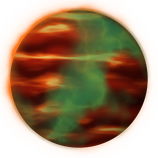
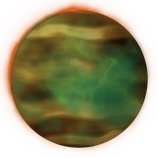
Year 501 and Hegemony or Survival: small starbases, supergiants, two brown dwarfs
- The west-vs-east map is now its own map, Year 501 (maps/6p_Year_501.map,
  tools/make_year_501.py), with three small one-ring starbases a side and
  its start docking rings fixed to touch their starbases.
- Hegemony or Survival gets nine small starbases: one with two rings by
  each supergiant, and three with one ring outside every other ford into
  the central ring (turned three ways).
- New four-hex Supergiant terrain (^Ysu, ^Ysu1..6): yellow, blue, red,
  white, green and orange, one of each on Hegemony or Survival.
- Brown dwarfs cut to two looks, magenta (^Ygg1) and mottled brown and
  ochre (^Ygg2), both on Year 501.

Claude-Session: https://claude.ai/code/session_01JBSoBdAT3FeCyXV6Bu7Tri

diff --git a/tools/make_barriers.py b/tools/make_barriers.py
@@ -9,8 +9,9 @@ Two kinds:
   its neighbours, so a blob reads as one cloud with a soft edge. This file
   only paints the clouds; make_art.py cuts them into hexes.
 * Single objects, drawn as overlays: black hole (four of them, picked per
-  hex), pulsar, and four that span four hexes: brown dwarf, supermassive
-  black hole, globular cluster and red supergiant (in its debris disk).
+  hex), pulsar, and five that span four hexes: brown dwarf, supergiant,
+  supermassive black hole, globular cluster and red supergiant (in its
+  debris disk).
 """
 import math
 
@@ -332,6 +333,8 @@ BROWN_DWARFS = [
     [(40, 22, 8), (195, 140, 50), (240, 200, 105), (255, 235, 170), (225, 100, 40), (3, 5), 0.0, "mottled"],  # mottled brown and ochre
     [(18, 10, 8), (70, 45, 30), (200, 95, 35), (255, 180, 100), (190, 90, 50), (3, 5), 0.25],      # dark, nearly cold
 ]
+# the looks kept for the maps, in order: the magenta and the mottled ones
+BROWN_DWARFS_KEPT = [5, 6]
 
 
 def _stretched(rng, s, octaves, base, sx=4):
@@ -402,6 +405,77 @@ def brown_dwarf(rng, style):
     out.alpha_composite(_rgba(np.broadcast_to(glow, (size, size, 3)), ga))
     out.alpha_composite(globe, ((size - globe.width) // 2,) * 2)
     return out
+
+# Supergiants: the biggest stars, each filling four hexes. Their colour
+# follows their surface heat, as on a star chart: blue (hottest, like
+# Rigel), white (like Deneb), yellow (like Rho Cassiopeiae), orange and
+# red (coolest, like Betelgeuse), and one green, which no real star shows
+# (a star that shines brightest in green looks white to the eye).
+# Each: core, middle, limb, glow; how big and bold its convection cells
+# are (cells across the disc, contrast), and how far the glow reaches.
+SUPERGIANT_D = 146             # a little bigger than a brown dwarf
+SUPERGIANT_SIZE = 216          # room for the glow round it
+SUPERGIANTS = [
+    [(255, 255, 240), (255, 222, 110), (205, 120, 25), (255, 205, 80), (10, 0.45), 1.0],    # yellow
+    [(240, 246, 255), (150, 182, 255), (70, 95, 225), (120, 165, 255), (32, 0.18), 1.5],    # blue
+    [(255, 205, 150), (230, 85, 35), (105, 18, 8), (225, 55, 25), (6, 0.6), 0.9],           # red
+    [(255, 255, 255), (228, 234, 255), (160, 175, 225), (215, 225, 255), (24, 0.18), 1.3],  # white
+    [(235, 255, 230), (110, 235, 135), (20, 120, 60), (90, 235, 120), (20, 0.3), 1.1],      # green
+    [(255, 240, 200), (255, 160, 65), (170, 65, 15), (255, 130, 45), (9, 0.45), 0.95],      # orange
+]
+
+
+def _cells(rng, s, n, R, warp):
+    """Cellular noise over a disc of radius R, its grid warped by up to
+    warp pixels so the cells are not straight-edged: (distance to the
+    nearest of n random points minus to the next nearest, which is 0 on
+    the lanes between cells; and each pixel's cell's own brightness)."""
+    x, y = _grid(s)
+    x = x + warp * (_noise(rng, s, 4, 4) - 0.5) * 2
+    y = y + warp * (_noise(rng, s, 4, 4) - 0.5) * 2
+    a = rng.uniform(0, 2 * np.pi, n); q = R * 1.1 * np.sqrt(rng.uniform(0, 1, n))
+    px, py, lum = q * np.cos(a), q * np.sin(a), rng.uniform(0, 1, n)
+    d = np.stack([np.hypot(x - u, y - v) for u, v in zip(px, py)])
+    order = np.argsort(d, axis=0)[:2]
+    d1 = np.take_along_axis(d, order[:1], 0)[0]
+    d2 = np.take_along_axis(d, order[1:2], 0)[0]
+    return d2 - d1, lum[order[0]]
+
+
+def supergiant(rng, style):
+    """A supergiant star: a bright disc dimming towards its limb, mottled
+    by convection cells (few and huge in the cool red ones, fine in the
+    hot blue ones), flares licking off its edge, and a wide soft glow."""
+    core, mid, limb, glow = [np.array(c, np.float32) for c in style[:4]]
+    (n, contrast), reach = style[4], style[5]
+    s = SUPERGIANT_SIZE * S
+    x, y = _grid(s)
+    R = SUPERGIANT_D / 2 * S
+    r = np.hypot(x, y)
+    mu = np.sqrt(np.clip(1 - (r / R) ** 2, 0, 1))
+    size = R * 1.8 / np.sqrt(n)                    # a cell's rough width
+    lane, lum = _cells(rng, s, n, R, 0.35 * size)
+    lane = np.clip(lane / (0.6 * size), 0, 1)
+    lane = lane * lane * (3 - 2 * lane)
+    wob = _noise(rng, s, 4, 10)
+    gran = _fblur(np.clip(lane * (0.6 + 0.4 * lum) + 0.3 * (wob - 0.5), 0, 1), 0.08 * size)
+    heat = np.clip(mu ** 0.5 * (1 - contrast + contrast * gran), 0, 1)
+    rgb = np.where(heat[..., None] < 0.6,
+                   _mix(limb, mid, np.clip(heat / 0.6, 0, 1)),
+                   _mix(mid, core, np.clip((heat - 0.6) / 0.4, 0, 1) ** 1.3))
+    disc = np.clip(R - r + 1, 0, 1)
+    # flares: ragged tongues of glow just past the limb
+    flick = _noise(rng, s, 4, 7)
+    out_r = np.clip(r - R, 0, None)
+    tongue = np.clip((flick - 0.5) / 0.3, 0, 1) * np.exp(-out_r / (0.07 * R))
+    halo = 0.8 * np.exp(-out_r / (0.1 * R * reach)) + 0.4 * np.exp(-out_r / (0.3 * R * reach))
+    edge = np.clip((s / 2 - r) / (0.1 * s), 0, 1) ** 1.5  # gone by the image's edge
+    ga = np.clip(halo * (0.75 + 0.5 * flick) + tongue * 0.7, 0, 1) * (1 - disc) * edge
+    grgb = _mix(glow, _mix(limb, mid, np.full_like(r, 0.6)), np.clip(np.exp(-out_r / (0.04 * R)), 0, 1) * 0.5)
+    grgb = _mix(grgb, core, np.clip(tongue * 0.5, 0, 1))
+    out = _rgba(rgb * disc[..., None] + grgb * (1 - disc)[..., None], np.clip(disc + ga, 0, 1))
+    return out.resize((SUPERGIANT_SIZE, SUPERGIANT_SIZE), Image.LANCZOS)
+
 
 def gas_giant(rng, palette):
     g = banded_sphere(rng, GIANT_D * 2, palette).resize((GIANT_D + 8, GIANT_D + 8), Image.LANCZOS)
@@ -767,17 +841,19 @@ def build_objects(rng, out, save, apply_mask, starfield, mask):
         # drawn (so the art after them stays the same) but not saved: the
         # gas giants became brown dwarfs, drawn below with their own seed
         gas_giant(rng, pal)
-    # Brown dwarfs, with their own seed.
+    # Brown dwarfs, with their own seed. All eight looks are still drawn,
+    # so the two kept stay the same, but only those two are saved.
     wrng = np.random.default_rng(rng.bit_generator.seed_seq.entropy + 7)
     dwarfs = []
     for i, pal in enumerate(BROWN_DWARFS):
         img = brown_dwarf(wrng, pal)
         dwarfs.append(img)
-        save(img, out, f"images/terrain/sc/brown-dwarf{'' if i == 0 else i + 1}.png", False)
         if i == 0:
             tile = apply_mask(starfield(wrng), mask)
-            tile.alpha_composite(img.resize((HEX - 4, HEX - 4), Image.LANCZOS), (2, 2))
-            save(apply_mask(tile, mask), out, "images/terrain/sc/brown-dwarf-tile.png", False)
+    for n, i in enumerate(BROWN_DWARFS_KEPT):
+        save(dwarfs[i], out, f"images/terrain/sc/brown-dwarf{'' if n == 0 else n + 1}.png", False)
+    tile.alpha_composite(dwarfs[BROWN_DWARFS_KEPT[0]].resize((HEX - 4, HEX - 4), Image.LANCZOS), (2, 2))
+    save(apply_mask(tile, mask), out, "images/terrain/sc/brown-dwarf-tile.png", False)
     # More black holes, added later with their own seed so the art above stays the same.
     brng = np.random.default_rng(rng.bit_generator.seed_seq.entropy + 1)
     for i, style in enumerate(BLACK_HOLES[1:]):
@@ -789,9 +865,10 @@ def build_objects(rng, out, save, apply_mask, starfield, mask):
     for name, (code, dark, light) in GIANT_VEILS.items():
         for i, img in enumerate(dwarfs):
             veil = veiled(vrng, img, dark, light)
-            if code.startswith("Yq"):       # impassable: no brown dwarfs there
-                continue
-            save(veil, out, f"images/terrain/sc/brown-dwarf-{name}{'' if i == 0 else i + 1}.png", False)
+            if code.startswith("Yq") or i not in BROWN_DWARFS_KEPT:
+                continue        # no brown dwarfs in impassable clouds
+            n = BROWN_DWARFS_KEPT.index(i)
+            save(veil, out, f"images/terrain/sc/brown-dwarf-{name}{'' if n == 0 else n + 1}.png", False)
     # The four-hex black holes and globular clusters, also with their own seed.
     grng = np.random.default_rng(rng.bit_generator.seed_seq.entropy + 2)
     for name, make, styles in [("black-hole-big", big_black_hole, BIG_BLACK_HOLES),
@@ -823,3 +900,12 @@ def build_objects(rng, out, save, apply_mask, starfield, mask):
             tile = apply_mask(starfield(drng), mask)
             tile.alpha_composite(img.resize((HEX - 4, HEX - 4), Image.LANCZOS), (2, 2))
             save(apply_mask(tile, mask), out, "images/terrain/sc/dark-star-tile.png", False)
+    # The supergiants, with their own seed.
+    urng = np.random.default_rng(rng.bit_generator.seed_seq.entropy + 8)
+    for i, style in enumerate(SUPERGIANTS):
+        img = supergiant(urng, style)
+        save(img, out, f"images/terrain/sc/supergiant{i + 1}.png", False)
+        if i == 0:
+            tile = apply_mask(starfield(urng), mask)
+            tile.alpha_composite(img.resize((HEX - 4, HEX - 4), Image.LANCZOS), (2, 2))
+            save(apply_mask(tile, mask), out, "images/terrain/sc/supergiant-tile.png", False)

diff --git a/tools/make_year_501.py b/tools/make_year_501.py
@@ -1,11 +1,11 @@
 #!/usr/bin/env python3
-"""Write maps/6p_Hegemony_or_Survival_West_East.map.
+"""Write maps/6p_Year_501.map.
 
-The team version of Hegemony or Survival (the six-player version is a
-hexagon, tools/make_hegemony_or_survival.py). An original space map for
-2 vs. 2 (or 3 vs. 3): west against east, with
-three starbases on each side so a 2 vs. 2 game can start from different
-places. Only the west half is laid out here; the east half is its mirror
+Year 501: an original space map for 2 vs. 2 (or 3 vs. 3), west against
+east, with three starting starbases on each side so a 2 vs. 2 game can
+start from different places, and three small forward starbases a side
+with one docking ring each (it began as the team version of Hegemony or
+Survival, tools/make_hegemony_or_survival.py). Only the west half is laid out here; the east half is its mirror
 image, hex for hex (the map is an odd number of hexes wide, so the middle
 column mirrors onto itself and every hex keeps its neighbours).
 
@@ -23,7 +23,7 @@ Ideas taken from the mod's other maps:
 - Isar's Cross: a ring of light badlands round the central nebula, for
   close fighting round the middle.
 
-Usage: make_hegemony_or_survival_west_east.py <add-on dir> [-v]
+Usage: make_year_501.py <add-on dir> [-v]
 """
 
 import heapq
@@ -151,10 +151,13 @@ def lake(m, line):
                 m.put(u, v, "b")
 
 
-def keep(m, x, y, rings):
+def keep(m, x, y, rings, skip=()):
+    """A starbase with docking rings on its neighbours (rings: how many,
+    skipping the neighbours in skip)."""
     m.put(x, y, "K")
-    for u, v in rings:
-        m.put(u, v, "c")
+    for u, v in [h for h in neighbours(x, y) if h not in skip][:rings]:
+        if 0 <= u < W and 0 <= v < H:
+            m.put(u, v, "c")
 
 
 def build():
@@ -172,7 +175,7 @@ def build():
     # ---------------------------------------------------- the north-west
     # start, Media Control style: a river of light badlands round the
     # corner, two fords out
-    keep(m, 4, 3, [(3, 3), (3, 4), (5, 3), (5, 4), (4, 4)])
+    keep(m, 4, 3, 5, skip=[(4, 2)])
     m.hexes(path([(0, 7), (7, 7), (9, 4), (9, 0)]), "b")
     m.hexes([(3, 7), (9, 2)], "f")                   # the two fords
     m.hexes([(1, 1), (7, 1)], "p")                   # home planets
@@ -180,7 +183,7 @@ def build():
 
     # -------------------------------------------- the west start, on the
     # edge, screened by debris disks (Manufacturing Consent)
-    keep(m, 1, 14, [(1, 13), (1, 15), (0, 13), (0, 14), (2, 13), (2, 14)])
+    keep(m, 1, 14, 6)
     m.hexes([(5, 12), (5, 13), (6, 12)], "w")
     m.hexes([(5, 16), (5, 17), (6, 17)], "w")
     m.hexes([(1, 11), (1, 17), (4, 14)], "p")
@@ -188,7 +191,7 @@ def build():
 
     # ------------------------------------ the south-west start, by a long
     # badland lake reaching to the south edge (Understanding Power)
-    keep(m, 4, 25, [(3, 25), (3, 26), (5, 25), (5, 26), (4, 24)])
+    keep(m, 4, 25, 5, skip=[(4, 26)])
     lake(m, [(8, 23), (9, 24), (9, 25), (10, 26), (10, 27), (11, 28)])
     m.hexes([(9, 27)], "f")                          # a calm passage
     m.hexes([(10, 24)], "q")                         # a sea planet in it
@@ -222,7 +225,7 @@ def build():
     m.hexes([(12, 2), (16, 1)], "p")
     # a brown dwarf in a nebula, a planet in asteroids beside it
     m.blob(15, 8, 1, "n")
-    m.big_object(diamond_slant(15, 8), ("Ygg3", "Ygg4"), "n")
+    m.big_object(diamond_slant(15, 8), ("Ygg1", "Ygg2"), "n")
     m.hexes([(13, 7)], "a")
     m.hexes([(13, 8)], "p")
     # south: a dark star in its dark nebula
@@ -269,6 +272,12 @@ def build():
     m.big_object(diamond_across(MID, 24), "Ygc", "R")
     m.hexes([(20, 28)], "p")
     m.blob(20, 28, 1, "a", keep="pR")
+    # small starbases with one docking ring, three a side: in front of the
+    # middle start, by the brown dwarf and by the dark star
+    for (x, y), ring in [((7, 14), (8, 14)), ((17, 10), (18, 10)),
+                         ((17, 21), (18, 21))]:
+        m.put(x, y, "K")
+        m.put(*ring, "c")
     return m
 
 
@@ -338,7 +347,7 @@ def report(m):
 
 if __name__ == "__main__":
     m = build()
-    write(m, os.path.join(sys.argv[1], "maps/6p_Hegemony_or_Survival_West_East.map"))
+    write(m, os.path.join(sys.argv[1], "maps/6p_Year_501.map"))
     report(m)
     if "-v" in sys.argv:
         for row in m.g:

diff --git a/tools/make_hegemony_or_survival.py b/tools/make_hegemony_or_survival.py
@@ -22,8 +22,13 @@ Ideas taken from the mod's other maps:
 - Isar's Cross: a ring of light badlands round the central nebula, for
   close fighting round the middle, where a starbase waits.
 
-Brown dwarfs stand in nebulae between neighbours, never in impassable
-clouds. Outside the hexagon is the void (off the map).
+Six supergiants, one of each colour, stand in nebulae between neighbours,
+each with a small starbase (two docking rings) beside it. Three more small
+starbases, one docking ring each, wait outside every other ford into the
+central ring: one between each pair of neighbours 1 & 2, 3 & 4 and 5 & 6,
+so those three keep the map's three-way turn and its mirror images, but
+not the full six-way symmetry. Outside the hexagon is the void (off the
+map).
 
 Usage: make_hegemony_or_survival.py <add-on dir> [-v]
 """
@@ -247,11 +252,14 @@ def build():
         m.put(h, "B")
     m.edge([g for h in lake for g in images(*h)], "b")
     m.put(at(8, 8), "q")
-    # a brown dwarf in a nebula, nearer the centre
+    # a supergiant in a nebula, nearer the centre, each its own colour:
+    # yellow, blue, red, white, green, orange (^Ysu1..6), clockwise
     m.blob(at(5, 5), 1, "n")
-    # eight looks of brown dwarf: these six here, the other two on the
-    # West vs. East map
-    m.diamond(at(5, 5), ["Ygg5", "Ygg1", "Ygg6", "Ygg8", "Ygg7", "Ygg2"], "n")
+    m.diamond(at(5, 5), ["Ysu1", "Ysu2", "Ysu3", "Ysu4", "Ysu5", "Ysu6"], "n")
+    # and a small starbase beside it, two docking rings (a mirror pair, as
+    # one ring cannot sit on the mirror line)
+    m.put(at(6, 6), "K")
+    m.put(at(5, 6), "c")
 
     # -------------------------------- rich planets in asteroid fields
     m.blob(at(9, 3), 1, "a", keep="bfn")
@@ -275,7 +283,17 @@ def build():
     m.put((CX, CY), "K")
     for h in neighbours(CX, CY):
         m.put(h, "c")
+    # three small starbases with one docking ring, outside every other ford
+    # into the ring: turned three ways only, not mirrored
+    for k in INNER_SIDES:
+        x, y = at(3, 3, k)
+        m.g[y][x] = "K"
+        x, y = at(3, 2, k)
+        m.g[y][x] = "c"
     return m
+
+
+INNER_SIDES = (0, 2, 4)        # the sixths with an inner small starbase
 
 
 def keeps():
@@ -332,6 +350,9 @@ def report(m):
     print(f"{len(planets)} planets")
     ks = keeps()
     ds = [moves(m, k) for k in ks]
+    small = [(x, y) for y in range(H) for x in range(W)
+             if m.get(x, y) == "K" and (x, y) not in ks and (x, y) != (CX, CY)]
+    print(f"{len(small)} small starbases")
     open_hexes = {(x, y) for y in range(H) for x in range(W)
                   if inside(x, y) and m.get(x, y) not in BARRIER}
     print("unreachable:", sorted(open_hexes - set(ds[0])) or "none")
@@ -340,7 +361,8 @@ def report(m):
                      if d.get(p, 99) == min(e.get(p, 99) for e in ds))
         print(f"start {k[0] + 1},{k[1] + 1}: nearest planets {own}, "
               f"centre {d.get((CX, CY))}, neighbours "
-              f"{sorted(d.get(o) for o in ks if o != k)}")
+              f"{sorted(d.get(o) for o in ks if o != k)}, small starbases "
+              f"{sorted(d.get(b) for b in small)}")
 
 
 if __name__ == "__main__":

diff --git a/README.md b/README.md
@@ -48,7 +48,7 @@ maps below and the era **Star Control: The Ur-Quan War**.
 | 4p — Manufacturing Consent | 2 vs 2 (west, players 1 & 3, vs east, players 2 & 4) |
 | 4p — Media Control | 2 vs 2, one player in each corner (players 1 & 3, northwest and southeast, vs 2 & 4, northeast and southwest) |
 | 6p — Hegemony or Survival | 2 vs 2 or 3 vs 3 on a hexagon, a player in each corner, numbered clockwise from the north: odd vs even; for 2 vs 2 leave one odd and one even side empty |
-| 6p — Hegemony or Survival (West vs. East) | 2 vs 2 or 3 vs 3, west (players 1, 3 & 5) vs east (2, 4 & 6); for 2 vs 2 leave a mirrored pair empty: 1 & 2 north, 3 & 4 middle, 5 & 6 south |
+| 6p — Year 501 | 2 vs 2 or 3 vs 3, west (players 1, 3 & 5) vs east (2, 4 & 6); for 2 vs 2 leave a mirrored pair empty: 1 & 2 north, 3 & 4 middle, 5 & 6 south |
 | 2p — The Freelands (Deep Space) | 1 vs 1 |
 | 2p — Weldyn Channel (Deep Space) | 1 vs 1 |
 | 2p — Fallenstar Lake (Deep Space) | 1 vs 1 |
@@ -242,9 +242,9 @@ heat-proof Chenjesu (2 / 50%) are at home in red nebulae.
   Wesnoth terrain.
 - `tools/make_hegemony_or_survival.py .` regenerates Hegemony or Survival, an
   original 6-player map on a hexagon, the same in all six corners (turned
-  and mirrored hex for hex), and
-  `tools/make_hegemony_or_survival_west_east.py .` its team version, west vs
-  east, mirrored west to east; both print each start's planet distances as
+  and mirrored hex for hex), and `tools/make_year_501.py .` regenerates
+  Year 501, an original team map, west vs east, mirrored west to east; both
+  print each start's planet distances as
   a balance check.
 - `tools/grid_overlay.py <map> <render.png> <out.png>` draws a hex grid with
   each hex's in-game coordinates over a `wesnoth --screenshot` render of the
